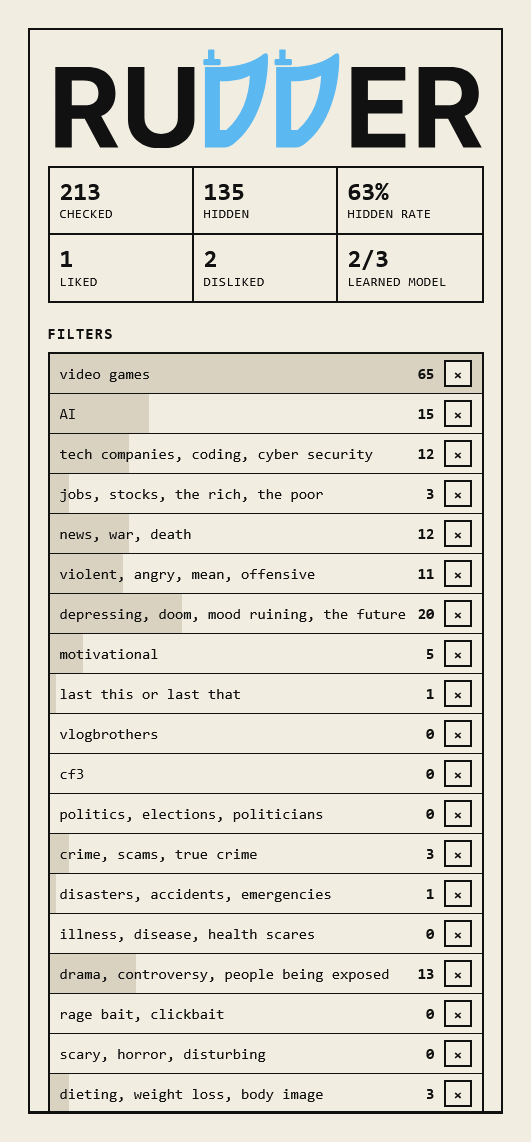
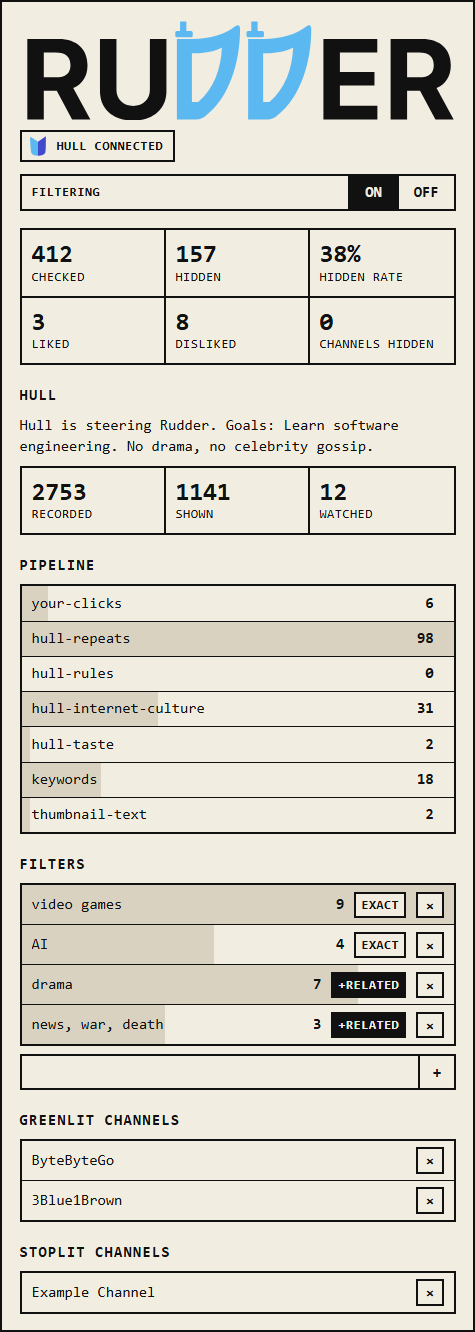
README: the popup as it is now (Hull connected, exact and related filters, greenlit and stoplit channels); a line on filters and channel lights

diff --git a/README.md b/README.md
@@ -15,7 +15,9 @@ Solution: Give configurability to the end user, allowing for a seamless configur
 
 A control flow of obsfucation of media reappearing the videos is the approach used to manage user experience. There is a goal to not privy the user to the idea that it isnt a natural youtube experience as they do a good job at capturing their audience and garnering a large fan base, so the only addition was the ability to like and dislike videos, which Rudder remembers and hands to [Hull](https://github.com/Hassleware/hull) to learn from and engage in further personalised filtering that cannot be immediately and easily translated by our end user in creating all the filters they need once setting this up.
 
-<p align="center"><img src="docs/popup.png" alt="Rudder's popup: statistics and filters" width="340"></p>
+<p align="center"><img src="docs/popup.png" alt="Rudder's popup: statistics, Hull connected, filters with their exact or related switch, greenlit and stoplit channels" width="340"></p>
+
+Filters are exact: "AI" hides "AI news", not "said". Flip a filter to +RELATED and it catches the words around it too, like game titles for "video games". A channel you trust can be greenlit from a video's ⋮ menu, so none of its videos are ever filtered. A channel you never want to see can be stoplit, so all of its videos are hidden, even the ones already on the page.
 
 Rudder also opens a local API, so programs on your own computer can steer it. [Hull](https://github.com/Hassleware/hull) uses it to run Gemma on your own graphics card, map your internet culture and filter by your goals.
 
